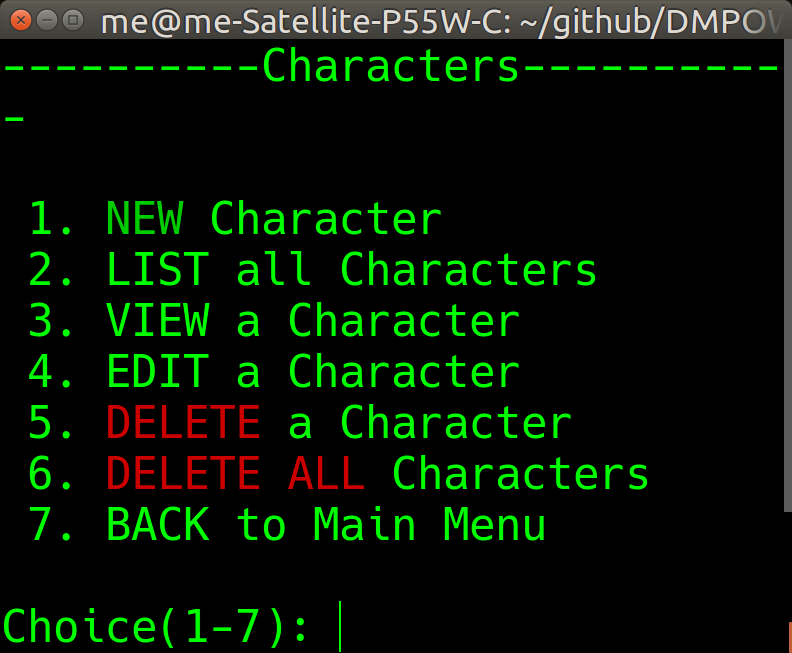
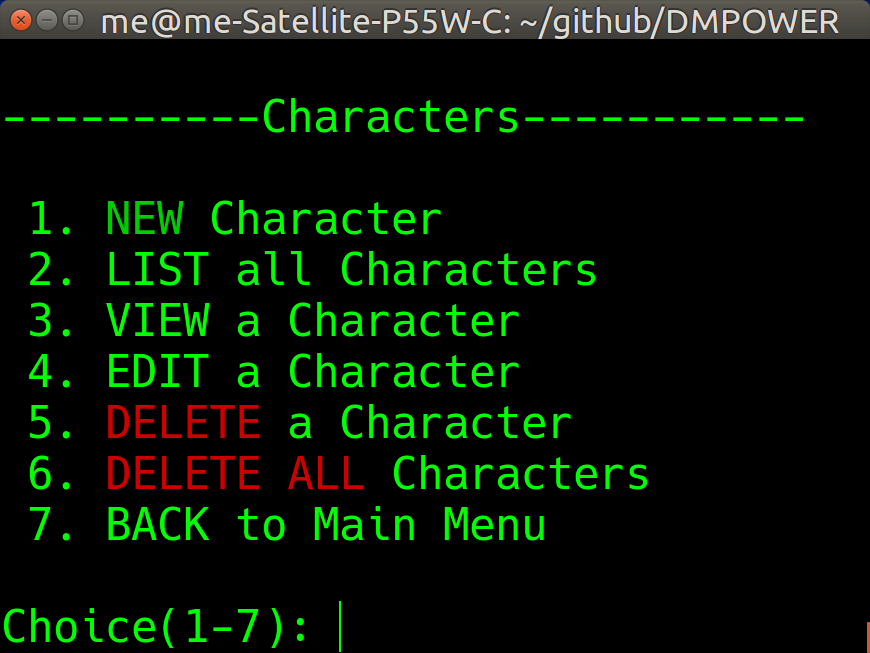
new ss

diff --git a/README.md b/README.md
@@ -11,6 +11,8 @@
 
 <img src="./cliscreenshot_characters.png" height="144px" align="left">
 
+<img src="./cliscreenshot_characters2.png" height="144px" align="left">
+
 <img src="./cliscreenshot_treasure.png" height="144px" align="center">
 
 ### Features 2 big tools, and a few smaller ones.
